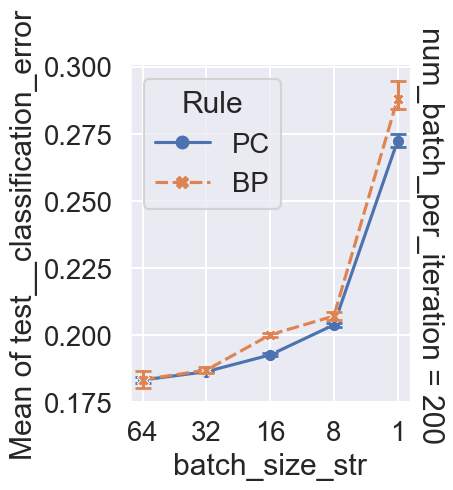
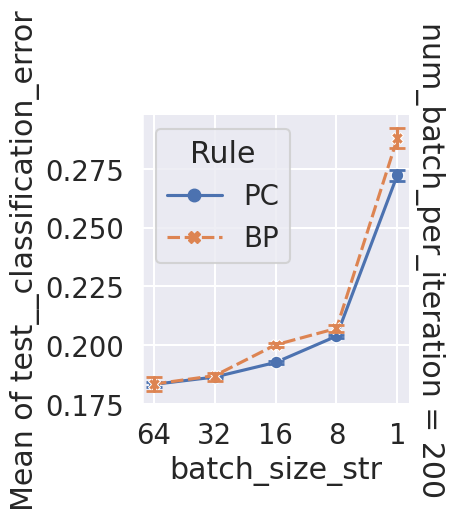
update 6 files

diff --git a/experiments/nature_none_batch_new_analysis/utils.py b/experiments/nature_none_batch_new_analysis/utils.py
@@ -88,6 +88,8 @@ def plot_mean_best(df):
 
     au.nature_post(g, is_grid=True)
 
+    return df
+
 
 def plot_curve(df):
 

diff --git a/experiments/nature_none_batch_new_analysis/README.md b/experiments/nature_none_batch_new_analysis/README.md
@@ -1,8 +1,8 @@
 <!-- TOC -->
 
-- [base (nature)](#base-nature)
-  - [mean-best (nature)](#mean-best-nature)
-  - [min (nature)](#min-nature)
+-   [base (nature)](#base-nature)
+    -   [mean-best (nature)](#mean-best-nature)
+    -   [min (nature)](#min-nature)
 
 <!-- /TOC -->
 
@@ -45,9 +45,11 @@ python analysis_v1.py \
 -l "$RESULTS_DIR/nature_none_batch_new_analysis/" \
 -m "df['test__classification_error'].mean()" \
 -f "./experiments/nature_none_batch_new_analysis/base-b1.yaml" "./experiments/nature_none_batch_new_analysis/base-b8.yaml" "./experiments/nature_none_batch_new_analysis/base-b16.yaml" "./experiments/nature_none_batch_new_analysis/base-b32.yaml" "./experiments/nature_none_batch_new_analysis/base-b64.yaml" \
+--fig-name fig4-b \
+--source-include-columns batch_size_str Rule "Mean of test__classification_error" seed \
 -v \
 "import experiments.nature_none_batch_new_analysis.utils as u" \
-"u.plot_mean_best(df)"
+"df=u.plot_mean_best(df)"
 ```
 
 ![](./batch_size-mean-best-.png)
